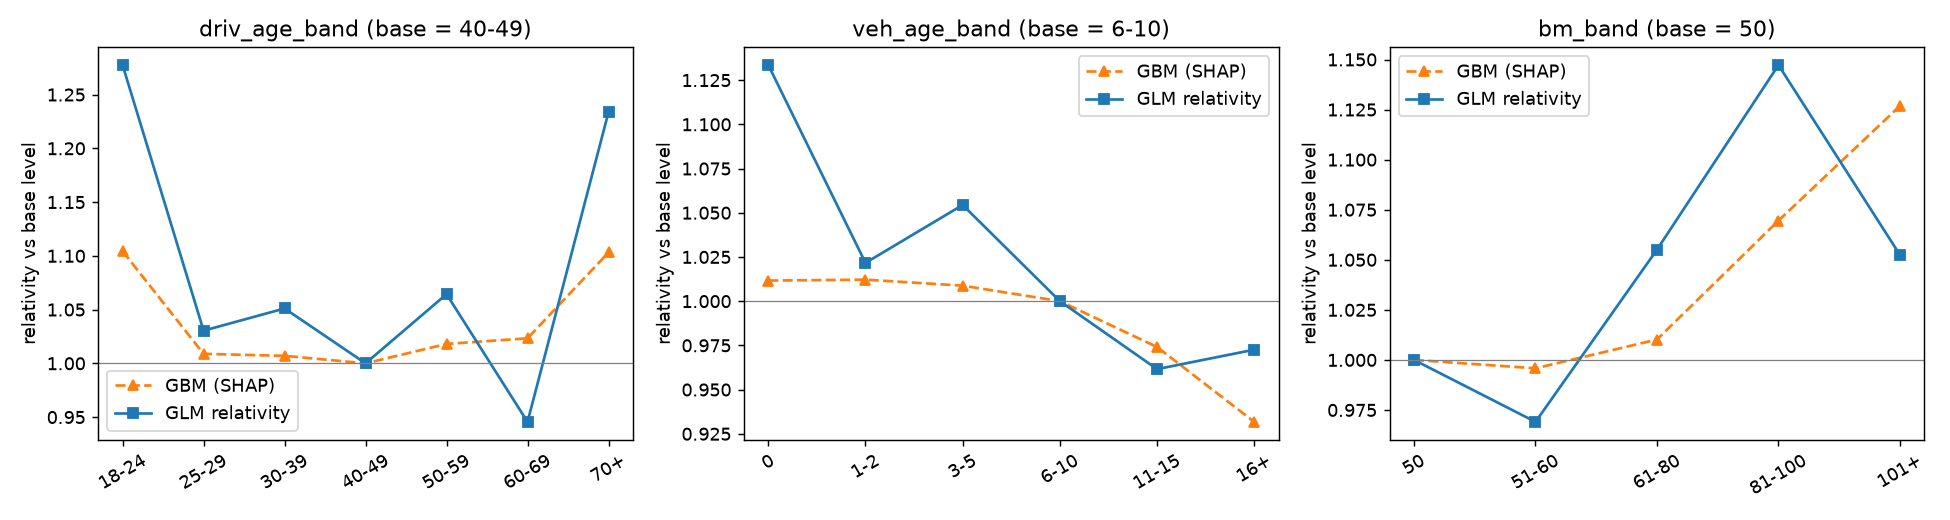
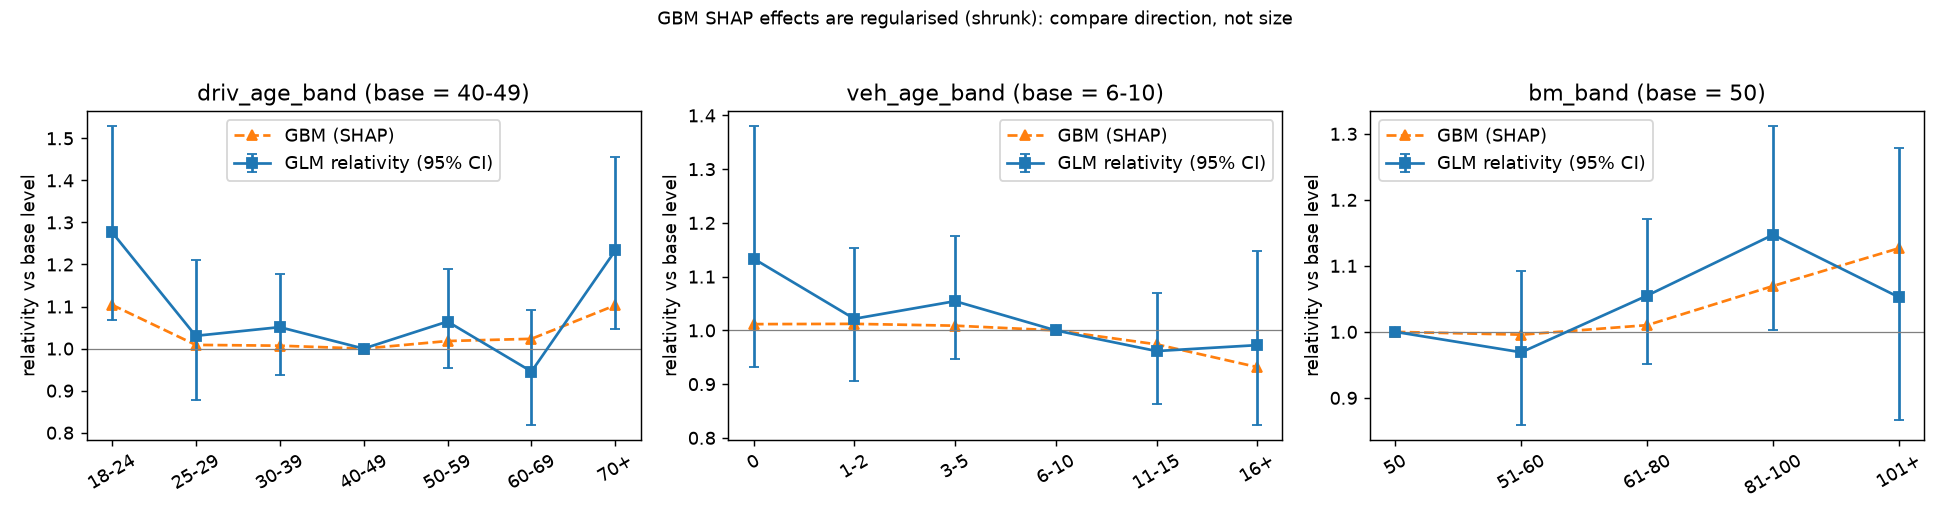
Results run after syntax fix

diff --git a/results/cv_results.md b/results/cv_results.md
@@ -1,0 +1,29 @@
+# 5-fold cross-validation (selection nested inside each fold)
+
+GBM backend: `lightgbm`; folds = `idpol % 5` over all 24,944 policies with claims (26,444 claims).  Lower deviance is better.
+
+| model        |   mean_deviance |   sd_across_folds |   deviance_explained_pooled |   mean_gain_vs_constant |   sd_of_gain | folds_beating_constant   | clearly_better_than_constant   |
+|:-------------|----------------:|------------------:|----------------------------:|------------------------:|-------------:|:-------------------------|:-------------------------------|
+| constant     |          1.3160 |            0.0295 |                      0.0000 |                nan      |     nan      | <NA>                     | n/a                            |
+| glm_age_only |          1.3107 |            0.0278 |                      0.0041 |                  0.0053 |       0.0075 | 3                        | no                             |
+| glm_full     |          1.3266 |            0.0363 |                     -0.0081 |                 -0.0106 |       0.0074 | 1                        | no                             |
+| glm_selected |          1.3197 |            0.0332 |                     -0.0029 |                 -0.0037 |       0.0118 | 1                        | no                             |
+| gbm          |          1.3093 |            0.0322 |                      0.0051 |                  0.0067 |       0.0055 | 4                        | yes                            |
+
+`mean_gain_vs_constant` = constant deviance minus model deviance, per fold (positive = better than predicting the average for everyone); `sd_of_gain` is its standard deviation across the 5 folds.
+
+**Reading rule:** if a model's mean gain over the constant is smaller than the fold-to-fold SD of that gain, it should not be considered better. (`clearly_better_than_constant` applies exactly this rule; with 5 folds it is roughly a p < 0.1 bar.)
+
+## Terms kept by `glm_selected` (F-test, Pearson dispersion, p < 0.10)
+
+- fold 0: driv_age_band
+- fold 1: driv_age_band
+- fold 2: driv_age_band, area, veh_power_g
+- fold 3: driv_age_band, veh_power_g
+- fold 4: driv_age_band, bm_band, region
+
+## Known mild optimism (so read gains as upper bounds)
+
+- The GBM's `num_leaves` / `min_child_samples` were chosen earlier using the original validation split, which overlaps these folds.
+- `glm_age_only` was chosen after looking at full-sample results.
+- `glm_selected` is the only model whose selection is fully nested inside each fold.

diff --git a/results/results.md b/results/results.md
@@ -4,11 +4,16 @@ Data: **real freMTPL2 (public)**
 Test policies with claims: 4,997; claims: 5,234  
 GBM backend: `lightgbm`, 137 trees, params {'leaves': 4, 'mcs': 50}
 
-| model          |   test_deviance |   deviance_explained |    bias |
-|:---------------|----------------:|---------------------:|--------:|
-| GLM (R)        |          1.3333 |              -0.0056 |  0.0039 |
-| GBM (lightgbm) |          1.3247 |               0.0009 | -0.0090 |
+| model              |   test_deviance |   deviance_explained |    bias |
+|:-------------------|----------------:|---------------------:|--------:|
+| GLM (R)            |          1.3333 |              -0.0056 |  0.0039 |
+| GBM (lightgbm)     |          1.3247 |               0.0009 | -0.0090 |
+| Constant (null_mu) |          1.3259 |               0.0000 |  0.0014 |
 
 Paired bootstrap, GLM minus GBM deviance: **+0.0086** (95% CI -0.0157 to +0.0339) -> the difference is within sampling noise (95% CI includes 0).
+
+Paired bootstrap, GLM minus constant deviance: **+0.0074** (95% CI -0.0207 to +0.0399) -> the difference is within sampling noise (95% CI includes 0).
+
+Paired bootstrap, GBM minus constant deviance: **-0.0011** (95% CI -0.0206 to +0.0174) -> the difference is within sampling noise (95% CI includes 0).
 
 ![calibration and lift](calibration_and_lift.png)
